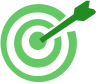
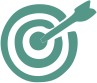
update all page colour

diff --git a/components/products.tsx b/components/products.tsx
@@ -9,7 +9,7 @@ const Products = () => {
   return (
     <div>
       {/* Hero Section */}
-      <section className="bg-gradient-to-r from-green-600 via-green-700 to-green-800 text-white pt-16 pb-12">
+      <section className="bg-[rgb(84,150,136)] text-white pt-16 pb-12">
         <div className="container mx-auto text-center">
           <div className="mb-2">
           <Image
@@ -37,12 +37,12 @@ const Products = () => {
           height={60}
           className="mx-auto"
           />
-          <h2 className="text-4xl font-bold text-green-800 text-center mb-12">Vanilla Beans</h2>
+          <h2 className="text-4xl font-bold text-[rgb(84,150,136)] text-center mb-12">Vanilla Beans</h2>
           <div className="grid grid-cols-1 md:grid-cols-2 gap-8">
             {/* Vanilla Planifolia */}
 <div className="border rounded-lg shadow-lg p-6 bg-white hover:shadow-2xl transition mx-4 flex flex-col">
   {/* Judul */}
-  <h3 className="text-2xl font-semibold text-green-800 mb-4">
+  <h3 className="text-2xl font-semibold text-[rgb(84,150,136)] mb-4">
     Vanilla Planifolia (Grade A)
   </h3>
   
@@ -100,7 +100,7 @@ const Products = () => {
 {/* Vanilla Tahitensis */}
 <div className="border rounded-lg shadow-lg p-8 bg-white hover:shadow-2xl transition mx-4 flex flex-col">
   {/* Judul */}
-  <h3 className="text-2xl font-semibold text-green-800 mb-4">
+  <h3 className="text-2xl font-semibold text-[rgb(84,150,136)] mb-4">
     Vanilla Tahitensis (Grade A)
   </h3>
 
@@ -160,7 +160,7 @@ const Products = () => {
       {/* Vanilla Derivatives Section */}
       <section className="bg-white text-gray-800 py-16">
         <div className="container mx-auto text-left">
-          <h2 className="text-4xl font-bold text-green-800 mb-12 text-center">Vanilla Derivatives</h2>
+          <h2 className="text-4xl font-bold text-[rgb(84,150,136)] mb-12 text-center">Vanilla Derivatives</h2>
           <p className="mb-5 text-center">Our vanilla derivatives are crafted to provide enhanced flavor and versatility for a wide range of applications. From concentrated pastes to pure extracts and seeds, each product is designed to offer superior quality and consistency, perfect for gourmet food, beverages, and fragrance industries.</p>
           <div className="grid grid-cols-1 md:grid-cols-2 gap-8">
 
@@ -175,7 +175,7 @@ const Products = () => {
               height={40}
               className="mx-auto"
               />
-              <h3 className="text-2xl font-semibold text-green-800 mb-4 text-center">Vanilla Extract</h3>
+              <h3 className="text-2xl font-semibold text-[rgb(84,150,136)] mb-4 text-center">Vanilla Extract</h3>
               <p className="text-sm text-gray-600 mb-4">
                 Our vanilla extract is a pure and concentrated form of vanilla, ideal for enhancing the flavor of your favorite baked goods, beverages, and gourmet dishes. Available in different grades to match the needs of professionals.
               </p>
@@ -248,7 +248,7 @@ const Products = () => {
               height={60}
               className="mx-auto"
               />
-              <h3 className="text-2xl font-semibold text-green-800 mb-4 text-center">Vanilla Paste</h3>
+              <h3 className="text-2xl font-semibold text-[rgb(84,150,136)] mb-4 text-center">Vanilla Paste</h3>
               <p className="text-sm text-gray-600 mb-4">
                 Vanilla paste is a concentrated form of vanilla extract mixed with vanilla seeds. This product adds both flavor and visual appeal, perfect for high-end desserts and beverages. Available in varying intensities to suit different needs.
               </p>
@@ -308,7 +308,7 @@ const Products = () => {
 {/* Vanilla Seed */}
 
 <div className="border rounded-lg shadow-lg p-6 bg-gray-50 hover:shadow-2xl transition mx-4">
-  <h3 className="text-2xl font-semibold text-green-800 mb-4 text-center">Vanilla Seeds</h3>
+  <h3 className="text-2xl font-semibold text-[rgb(84,150,136)] mb-4 text-center">Vanilla Seeds</h3>
   <p className="text-sm text-gray-600 mb-4">
     Extracted directly from our finest vanilla pods, our premium vanilla seeds provide an intense, aromatic flavor that enhances the quality of gourmet products. These tiny black specks are packed with rich vanilla essence, making them perfect for adding both flavor and visual appeal to your culinary creations. The seeds' delicate yet potent flavor works beautifully in everything from high-end desserts and pastries to premium beverages, infusions, and gourmet chocolate. Vanilla seeds are the ideal choice for chefs looking to elevate their dishes with an authentic, high-quality vanilla flavor. Perfect for those seeking both flavor and aesthetic appeal, they add a luxurious touch to any recipe.
   </p>
@@ -334,7 +334,7 @@ const Products = () => {
 
             {/* Vanilla Powder */}
 <div className="border rounded-lg shadow-lg p-6 bg-gray-50 hover:shadow-2xl transition mx-4">
-  <h3 className="text-2xl font-semibold text-green-800 mb-4 text-center">Vanilla Powder</h3>
+  <h3 className="text-2xl font-semibold text-[rgb(84,150,136)] mb-4 text-center">Vanilla Powder</h3>
   <p className="text-sm text-gray-600 mb-4">
     Our premium vanilla powder is made from ground, dried vanilla beans. It provides the purest vanilla flavor with a fine texture, ideal for adding a touch of elegance to a variety of desserts, beverages, and gourmet dishes.
   </p>
@@ -382,7 +382,7 @@ const Products = () => {
 {/* Bulk Orders & Customization */}
 <section className="bg-white text-gray-800 py-16">
   <div className="container mx-auto px-4">
-    <h2 className="text-4xl font-bold mb-6 text-green-800 text-center">
+    <h2 className="text-4xl font-bold mb-6 text-[rgb(84,150,136)] text-center">
       Bulk Orders & Customization
     </h2>
     <p className="text-lg sm:text-xl mb-8 max-w-2xl md:mx-auto text-center mx-4">
@@ -408,13 +408,13 @@ const Products = () => {
       {/* Call to Action */}
       <section className="bg-white py-16">
         <div className="container mx-auto text-center">
-          <h2 className="text-4xl font-bold mb-6 text-green-800">Order Now</h2>
+          <h2 className="text-4xl font-bold mb-6 text-[rgb(84,150,136)]">Order Now</h2>
           <p className="text-lg sm:text-xl mb-8 max-w-2xl md:mx-auto mx-4">
             Ready to experience the finest Indonesian vanilla? Contact us to place your order or request a quote.
           </p>
           <a
             href="/contact"
-            className="text-white bg-green-800 px-8 py-3 rounded-full text-lg font-semibold shadow-md hover:bg-gray-200 transition"
+            className="text-[rgb(244,234,197)] bg-[rgb(84,150,136)] px-8 py-3 rounded-full text-lg font-semibold shadow-md hover:bg-gray-200 transition"
           >
             Contact Us
           </a>

diff --git a/components/about.tsx b/components/about.tsx
@@ -3,7 +3,7 @@
 import React, { Component } from "react";
 import Image from "next/image";
 import VanilaImg from "../resources/vanila.jpg"; // Gantilah dengan path gambar Anda
-import AboutIcon from "../resources/about-icon.png";
+import AboutIcon from "../resources/about-icon2.png";
 import VisionIcon from "../resources/vision-icon.png";
 import MissionIcon from "../resources/mission-icon.png";
 import SustainabilityIcon from "../resources/sustainability-icon.png";
@@ -16,7 +16,7 @@ class AboutUs extends Component {
     return (
       <div>
         {/* Hero Section */}
-        <section className="bg-gradient-to-r from-green-600 via-green-700 to-green-800 text-white pt-16 pb-16">
+        <section className="bg-[rgb(84,150,136)] text-white pt-16 pb-16">
           <div className="container mx-auto text-center">
             <div className="mb-2">
               <Image
@@ -37,7 +37,7 @@ class AboutUs extends Component {
         {/* Vision and Mission Section */}
         <section className="bg-white text-gray-800 py-16">
           <div className="container mx-auto text-center">
-            <h2 className="text-4xl font-bold text-green-800 mb-12">
+            <h2 className="text-4xl font-bold text-[rgb(84,150,136)] mb-12">
               Our Vision & Mission
             </h2>
             <div className="md:flex md:justify-center md:space-x-20">
@@ -50,7 +50,7 @@ class AboutUs extends Component {
                 height={60}
                 className="mx-auto"
                 />
-                <h3 className="text-2xl font-semibold text-green-700 mb-6">
+                <h3 className="text-2xl font-semibold text-[rgb(84,150,136)] mb-6">
                   Our Vision
                 </h3>
                 <p className="text-lg leading-relaxed">
@@ -67,7 +67,7 @@ class AboutUs extends Component {
                 height={60}
                 className="mx-auto"
                 />
-                <h3 className="text-2xl font-semibold text-green-700 mb-6">
+                <h3 className="text-2xl font-semibold text-[rgb(84,150,136)] mb-6">
                   Our Mission
                 </h3>
                 <p className="text-lg leading-relaxed">
@@ -88,7 +88,7 @@ class AboutUs extends Component {
             height={60}
             className="mx-auto"
             />
-            <h2 className="text-4xl font-bold text-green-800 mb-12">
+            <h2 className="text-4xl font-bold text-[rgb(84,150,136)] mb-12">
               Our Commitment to Sustainability
             </h2>
             <div className="flex flex-col md:flex-row md:items-center md:justify-center md:space-x-16">
@@ -127,7 +127,7 @@ class AboutUs extends Component {
             height={60}
             className="mx-auto"
             />
-            <h2 className="text-4xl font-bold text-green-800 mb-12">
+            <h2 className="text-4xl font-bold text-[rgb(84,150,136)] mb-12">
               Meet Our Team
             </h2>
             <div className="grid grid-cols-1 md:grid-cols-2 gap-10">
@@ -140,7 +140,7 @@ class AboutUs extends Component {
                 height={60}
                 className="mx-auto"
                 />
-                <h3 className="text-2xl font-semibold text-green-700 mb-6">
+                <h3 className="text-2xl font-semibold text-[rgb(84,150,136)] mb-6">
                   Leadership
                 </h3>
                 <p className="text-lg leading-relaxed">
@@ -159,7 +159,7 @@ class AboutUs extends Component {
                 height={60}
                 className="mx-auto"
                 />
-                <h3 className="text-2xl font-semibold text-green-700 mb-6">
+                <h3 className="text-2xl font-semibold text-[rgb(84,150,136)] mb-6">
                   Field Team
                 </h3>
                 <p className="text-lg leading-relaxed">

diff --git a/components/contact.tsx b/components/contact.tsx
@@ -7,14 +7,14 @@ const Contact = () => {
     <section className="bg-gray-50 py-16">
       <div className="container mx-auto px-6 lg:px-12 text-center">
         {/* Title Section */}
-        <h1 className="text-5xl font-bold mb-6 text-green-800">Contact Us</h1>
+        <h1 className="text-5xl font-bold mb-6 text-[rgb(84,150,136)]">Contact Us</h1>
         <p className="text-lg mb-12 text-gray-700 leading-relaxed">
           We’d love to hear from you! Reach out for more information, sample requests, bulk orders, or to learn about our sustainable practices.
         </p>
 
         {/* Contact Information */}
         <div className="bg-beige text-gray-800 rounded-lg shadow-xl p-8 lg:p-12 md:w-2/3 mx-auto">
-          <h2 className="text-3xl font-bold mb-6 text-green-800">Get in Touch</h2>
+          <h2 className="text-3xl font-bold mb-6 text-[rgb(84,150,136)]">Get in Touch</h2>
           <p className="text-lg mb-8">
             Contact us through any of the methods below, and our team will respond promptly.
           </p>
@@ -22,13 +22,13 @@ const Contact = () => {
           <ul className="text-left space-y-6 text-lg">
             <li>
               <strong>Email:</strong> 
-              <a href="mailto:info@natureexquisite.com" className="text-green-800 hover:underline ml-2">
+              <a href="mailto:info@natureexquisite.com" className="text-[rgb(84,150,136)] hover:underline ml-2">
                 info@natureexquisite.com
               </a>
             </li>
             <li>
               <strong>Phone:</strong> 
-              <a href="tel:+6281234567890" className="text-green-800 hover:underline ml-2">
+              <a href="tel:+6281234567890" className="text-[rgb(84,150,136)] hover:underline ml-2">
                 +62 812 3456 7890
               </a>
             </li>
@@ -39,21 +39,21 @@ const Contact = () => {
               <strong>Social Media:</strong> 
               <a
                 href="https://instagram.com/nature_exquisite"
-                className="text-green-800 font-semibold hover:underline ml-2"
+                className="text-[rgb(84,150,136)] font-semibold hover:underline ml-2"
               >
                 Instagram
               </a>{" "}
               |{" "}
               <a
                 href="https://facebook.com/natureexquisite"
-                className="text-green-800 font-semibold hover:underline"
+                className="text-[rgb(84,150,136)] font-semibold hover:underline"
               >
                 Facebook
               </a>{" "}
               |{" "}
               <a
                 href="https://linkedin.com/company/natureexquisite"
-                className="text-green-800 font-semibold hover:underline"
+                className="text-[rgb(84,150,136)] font-semibold hover:underline"
               >
                 LinkedIn
               </a>
@@ -65,7 +65,7 @@ const Contact = () => {
         <div className="mt-12">
           <a
             href="/contact-form"
-            className="inline-block bg-green-800 text-white text-lg px-8 py-4 rounded-full font-semibold shadow-lg hover:bg-green-700 hover:shadow-xl transition"
+            className="inline-block bg-[rgb(84,150,136)] text-[rgb(244,234,197)] text-lg px-8 py-4 rounded-full font-semibold shadow-lg hover:bg-green-700 hover:shadow-xl transition"
           >
             Request a Free Sample
           </a>

diff --git a/components/sustainability.tsx b/components/sustainability.tsx
@@ -1,7 +1,7 @@
 import Image from 'next/image';
 import VanilaImg from '../resources/vanila.jpg';
 import { EmailSubcribe } from './subscribe-email';
-import SustainabilityIcon from "../resources/sustainability-icon.png";
+import SustainabilityIcon from "../resources/sustainability-icon2.png";
 import SusPracIcon from "../resources/sus-prac.png";
 import LocalComIcon from "../resources/local-com-icon.png";
 import RecycleIcon from "../resources/recycle-icon.png";
@@ -12,7 +12,7 @@ const Sustainability = () => {
   return (
     <div>
       {/* Hero Section */}
-      <section className="bg-gradient-to-r from-green-700 via-green-800 to-green-900 text-white pt-16 pb-12">
+      <section className="bg-[rgb(84,150,136)] text-white pt-16 pb-12">
         <div className="container mx-auto text-center">
           <Image
           src={SustainabilityIcon.src}
@@ -100,7 +100,7 @@ const Sustainability = () => {
       </section>
 
       {/* Call to Action */}
-      <section className="bg-gradient-to-r from-green-800 via-green-700 to-green-600 text-white py-16">
+      <section className="bg-white py-16">
         <div className="container mx-auto text-center">
           <Image 
           src={RecycleJourney.src}
@@ -109,13 +109,13 @@ const Sustainability = () => {
           height={60}
           className='mx-auto'
           />
-          <h2 className="text-4xl font-bold mb-6">Join Our Journey to Sustainability</h2>
+          <h2 className="text-4xl font-bold mb-6 text-[rgb(84,150,136)]">Join Our Journey to Sustainability</h2>
           <p className="text-lg leading-relaxed mb-8 max-w-2xl mx-auto">
-            Partner with PT Nature’s Exquisite Nusantara to make a difference. Together, we can build a sustainable future for our planet and communities.
+            Partner with PT Nature Exquisite Nusantara to make a difference. Together, we can build a sustainable future for our planet and communities.
           </p>
           <a
             href="/contact"
-            className="bg-white text-green-800 px-8 py-3 rounded-full font-semibold shadow-md hover:bg-gray-200 transition"
+            className="bg-[rgb(84,150,136)] text-[rgb(244,234,197)] px-8 py-3 rounded-full font-semibold shadow-md hover:bg-gray-200 transition"
           >
             Contact Us
           </a>
